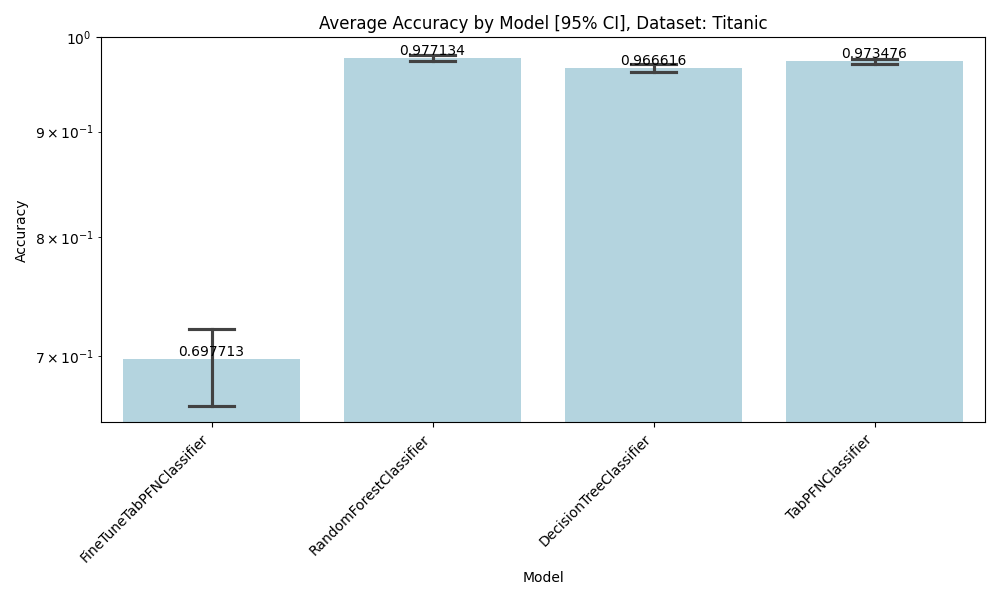
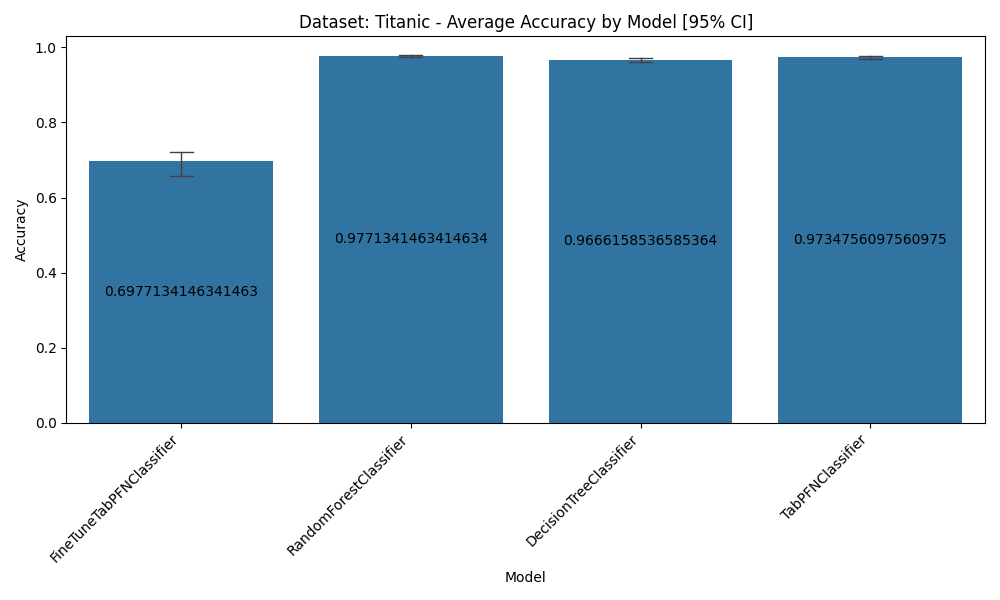
made plot nicer

diff --git a/main.py b/main.py
@@ -1,7 +1,7 @@
 from __future__ import annotations
 
 import os
-import math
+
 import matplotlib.pyplot as plt
 import pandas as pd
 import seaborn as sns
@@ -10,7 +10,6 @@ from data.DataManager import DataManager
 from gym.Evaluator import Evaluator
 from logger.Logger import Logger
 from models.FineTuneTabPFNClassifier import FineTuneTabPFNClassifier
-from scipy import stats
 from sklearn.ensemble import RandomForestClassifier
 from sklearn.tree import DecisionTreeClassifier
 from tabpfn import TabPFNClassifier
@@ -101,7 +100,7 @@ else:
                         {},
                     )
 
-                    # TODO create a modelbuilder which uses modelkwargs
+                    # create a model which uses modelkwargs
                     model = model_fn(**model_architecture_kwargs)
 
                     # evaluate the model given the right setting
@@ -157,24 +156,22 @@ for metric in ["accuracy", "auc", "f1", "cross_entropy", "time_fit", "time_predi
             x="model",
             y=metric,
             errorbar=("ci", 95),
-            capsize=0.2,
-            color="lightblue",
+            capsize=0.1,
+            err_kws={"linewidth": 1},
         )
-
+        threshold = 0.025
+        for c in ax.containers:
+            # Filter the labels
+            labels = [v if v > threshold else "" for v in c.datavalues]
+            ax.bar_label(c, labels=labels, label_type="center")
         # Adjust bar labels position
-        labels = ax.bar_label(ax.containers[0], fontsize=10)
-        plt.yscale("log")
-
-        # Inverse transformation for y-axis
-        plt.gca().invert_yaxis()
-        # Set y-axis range
-        ax.set_ylim(0.65, 1)
+        # labels = ax.bar_label(ax.containers[0], fontsize=10)
 
         # Add labels and title
         plt.xlabel("Model")
         plt.ylabel(metric.capitalize())
         plt.title(
-            f"Average {metric.capitalize()} by Model [95% CI], Dataset: {dataset_name}"
+            f"Dataset: {dataset_name} - Average {metric.capitalize()} by Model [95% CI]",
         )
 
         # Rotate x-axis labels for better readability
@@ -183,6 +180,6 @@ for metric in ["accuracy", "auc", "f1", "cross_entropy", "time_fit", "time_predi
         # Show plot
         plt.tight_layout()
         plt.savefig(
-            f"{setup_config['results_path']}/plots/model_performance/{metric}_{dataset_name}.png"
+            f"{setup_config['results_path']}/plots/model_performance/{metric}_{dataset_name}.png",
         )
-    print("")
+        plt.close()

diff --git a/logger/Logger.py b/logger/Logger.py
@@ -14,7 +14,8 @@ class Logger:
         self.results_path = results_path
 
     def setup_wandb(self, setup_config):
-        wandb.login()
+        if setup_config["log_wandb"]:
+            wandb.login()
         # start a new wandb run to track this script
 
     def register_incumbent(self, random_state, dataset_id, fold_i, model):
